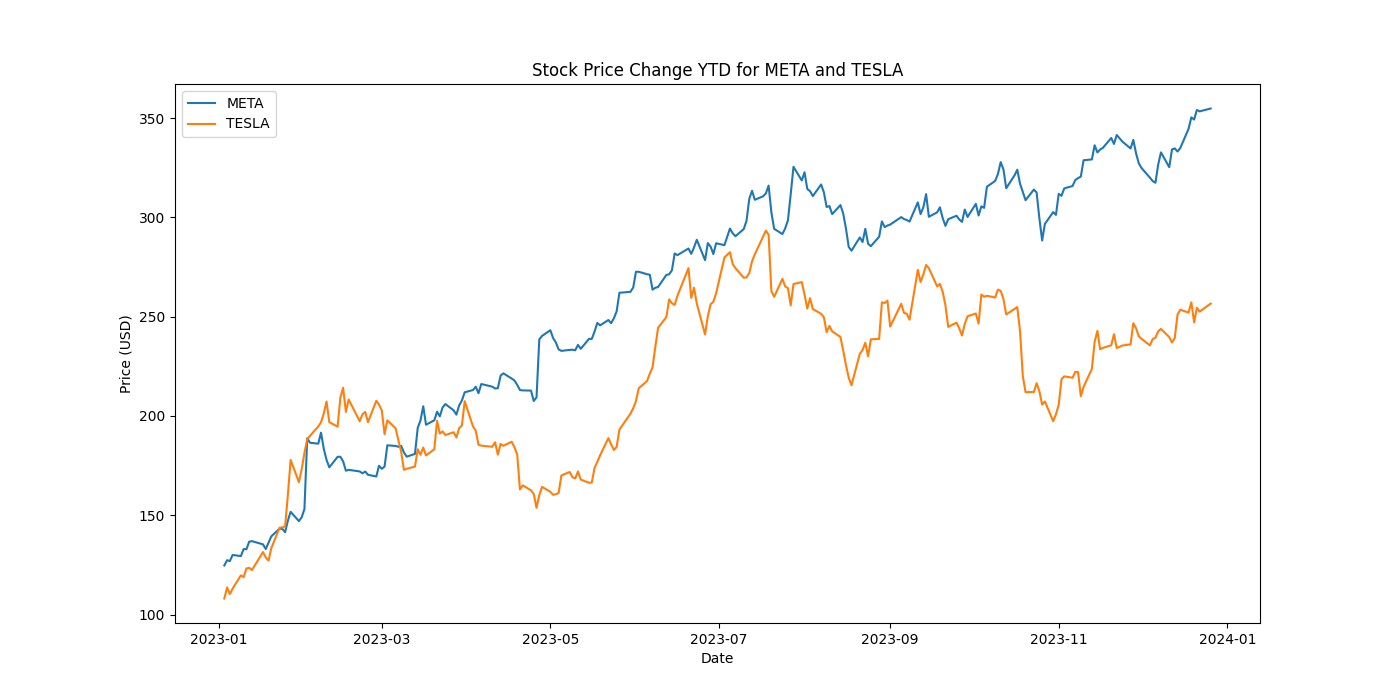
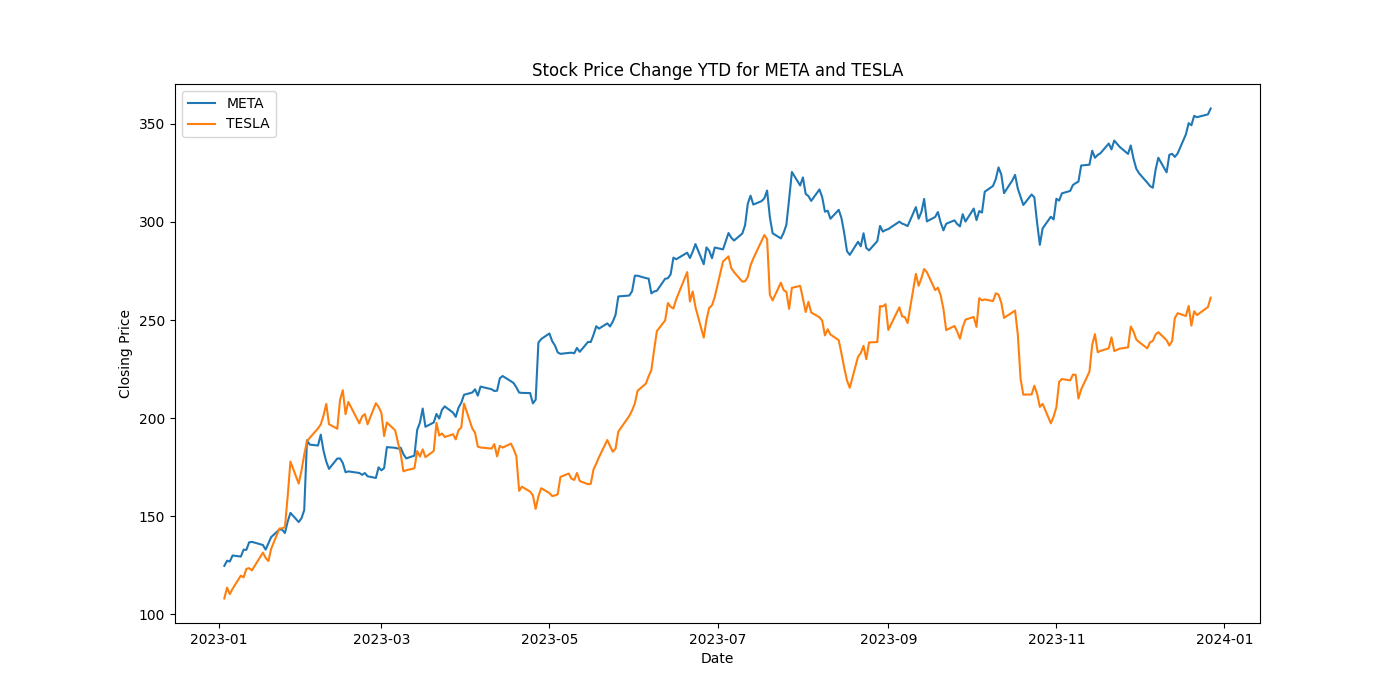
feat: group chat example

diff --git a/example4.py b/example4.py
@@ -1,0 +1,86 @@
+# Accepted file formats for that can be stored in 
+# a vector database instance
+import autogen
+from autogen.retrieve_utils import TEXT_FORMATS
+
+# print("Accepted file formats for `docs_path`:")
+# print(TEXT_FORMATS)
+
+from autogen.agentchat.contrib.retrieve_assistant_agent import RetrieveAssistantAgent
+from autogen.agentchat.contrib.retrieve_user_proxy_agent import RetrieveUserProxyAgent
+import chromadb
+import os
+import json
+
+config_list = autogen.config_list_from_dotenv(
+    dotenv_file_path='.env', # If None the function will try to find in the working directory
+    model_api_key_map={
+        "dayzerov1": {
+            "api_key_env_var": "AZURE_OPENAI_API_KEY",
+            "api_version": "2023-07-01-preview",
+            "base_url": "https://testingdayzero.openai.azure.com/",
+            'api_type': 'azure',
+        },
+    },
+    filter_dict={
+        "model": {
+            'dayzerov1',
+        }
+    }
+)
+
+llm_config = {"config_list": config_list, "cache_seed": 42}
+user_proxy = autogen.UserProxyAgent(
+   name="User_proxy",
+   system_message="A human admin.",
+   code_execution_config={"last_n_messages": 2, "work_dir": "groupchat"},
+   human_input_mode="TERMINATE"
+)
+coder = autogen.AssistantAgent(
+    name="Coder",
+    llm_config=llm_config,
+)
+pm = autogen.AssistantAgent(
+    name="Product_manager",
+    system_message="Creative in software product ideas.",
+    llm_config=llm_config,
+)
+groupchat = autogen.GroupChat(agents=[user_proxy, coder, pm], messages=[], max_round=12)
+manager = autogen.GroupChatManager(groupchat=groupchat, llm_config=llm_config)
+
+user_proxy.initiate_chat(manager, message="Find a latest paper about gpt-4 on arxiv and find its potential applications in software.")
+
+
+# llm_config = {"config_list": config_list, "cache_seed": 42}
+# user_proxy = autogen.UserProxyAgent(
+#    name="User_proxy",
+#    system_message="A human admin.",
+#    code_execution_config={"last_n_messages": 3, "work_dir": "groupchat"},
+#    human_input_mode="NEVER",
+# )
+# coder = autogen.AssistantAgent(
+#     name="Coder",  # the default assistant agent is capable of solving problems with code
+#     llm_config=llm_config,
+# )
+# critic = autogen.AssistantAgent(
+#     name="Critic",
+#     system_message="""Critic. You are a helpful assistant highly skilled in evaluating the quality of a given visualization code by providing a score from 1 (bad) - 10 (good) while providing clear rationale. YOU MUST CONSIDER VISUALIZATION BEST PRACTICES for each evaluation. Specifically, you can carefully evaluate the code across the following dimensions
+# - bugs (bugs):  are there bugs, logic errors, syntax error or typos? Are there any reasons why the code may fail to compile? How should it be fixed? If ANY bug exists, the bug score MUST be less than 5.
+# - Data transformation (transformation): Is the data transformed appropriately for the visualization type? E.g., is the dataset appropriated filtered, aggregated, or grouped  if needed? If a date field is used, is the date field first converted to a date object etc?
+# - Goal compliance (compliance): how well the code meets the specified visualization goals?
+# - Visualization type (type): CONSIDERING BEST PRACTICES, is the visualization type appropriate for the data and intent? Is there a visualization type that would be more effective in conveying insights? If a different visualization type is more appropriate, the score MUST BE LESS THAN 5.
+# - Data encoding (encoding): Is the data encoded appropriately for the visualization type?
+# - aesthetics (aesthetics): Are the aesthetics of the visualization appropriate for the visualization type and the data?
+
+# YOU MUST PROVIDE A SCORE for each of the above dimensions.
+# {bugs: 0, transformation: 0, compliance: 0, type: 0, encoding: 0, aesthetics: 0}
+# Do not suggest code. 
+# Finally, based on the critique above, suggest a concrete list of actions that the coder should take to improve the code.
+# """,
+#     llm_config=llm_config,
+# )
+
+# groupchat = autogen.GroupChat(agents=[user_proxy, coder, critic], messages=[], max_round=20)
+# manager = autogen.GroupChatManager(groupchat=groupchat, llm_config=llm_config)
+# user_proxy.initiate_chat(manager, message="download data from https://raw.githubusercontent.com/uwdata/draco/master/data/cars.csv and plot a visualization that tells us about the relationship between weight and horsepower. Save the plot to a file. Print the fields in a dataset before visualizing it.")
+# type exit to terminate the chat

diff --git a/coding/plot_stock_price.py b/coding/plot_stock_price.py
@@ -1,0 +1,27 @@
+# filename: plot_stock_price.py
+
+import yfinance as yf
+import matplotlib.pyplot as plt
+from datetime import datetime
+
+# Get today's date
+today = datetime.today().strftime('%Y-%m-%d')
+
+# Get the date for the start of the year
+start_of_year = datetime.today().strftime('%Y-01-01')
+
+# Download the historical data for META and TESLA
+meta_data = yf.download('META', start=start_of_year, end=today)
+tesla_data = yf.download('TSLA', start=start_of_year, end=today)
+
+# Plot the closing prices of META and TESLA
+plt.figure(figsize=(14, 7))
+plt.plot(meta_data['Close'], label='META')
+plt.plot(tesla_data['Close'], label='TESLA')
+plt.title('Stock Price Change YTD for META and TESLA')
+plt.xlabel('Date')
+plt.ylabel('Closing Price')
+plt.legend()
+
+# Save the plot to a PNG file
+plt.savefig('stock_price_ytd.png')

diff --git a/groupchat/download_plot.py b/groupchat/download_plot.py
@@ -1,0 +1,24 @@
+# filename: download_plot.py
+
+import pandas as pd
+import matplotlib.pyplot as plt
+
+# Download the .CSV file
+data = pd.read_csv('https://raw.githubusercontent.com/uwdata/draco/master/data/cars.csv')
+
+# Print the fields in the CSV file
+print(data.columns.tolist())
+# (data.columns.tolist(), ">>>>>")
+
+# Plotting
+plt.scatter(data['Weight'], data['Horsepower(HP)'])
+
+# Labeling the plot
+plt.xlabel('Weight in lbs')
+plt.ylabel('Horsepower')
+plt.title('Relationship between weight and horsepower')
+
+# Save the plot to a file
+plt.savefig('output.png')
+
+print("Plot saved as output.png")

diff --git a/groupchat/plot_data.py b/groupchat/plot_data.py
@@ -1,0 +1,20 @@
+# filename: plot_data.py
+
+import pandas as pd
+import matplotlib.pyplot as plt
+
+# Download the .CSV file
+data = pd.read_csv('https://raw.githubusercontent.com/uwdata/draco/master/data/cars.csv')
+
+# Plotting
+plt.scatter(data['Weight'], data['Horsepower'])
+
+# Labeling the plot
+plt.xlabel('Weight')
+plt.ylabel('Horsepower')
+plt.title('Relationship between weight and horsepower')
+
+# Save the plot to a file
+plt.savefig('output.png')
+
+print("Plot saved as output.png")

diff --git a/example3.py b/example3.py
@@ -101,7 +101,7 @@ ragproxyagent = RetrieveUserProxyAgent(
         "chunk_token_size": 2000,
         "model": "gpt-35-turbo",
         "client": chromadb.PersistentClient(path="/tmp/chromadb"),
-        "collection_name": "natural-questions1",
+        "collection_name": "natural-questions2",
         "chunk_mode": "one_line",
         "embedding_model": "all-MiniLM-L6-v2",
     },

diff --git a/groupchat/inspect_data.py b/groupchat/inspect_data.py
@@ -1,0 +1,9 @@
+# filename: inspect_data.py
+
+import pandas as pd
+
+# Download the .CSV file
+data = pd.read_csv('https://raw.githubusercontent.com/uwdata/draco/master/data/cars.csv')
+
+# Print the first few rows of the dataset to understand its structure
+print(data.head())
